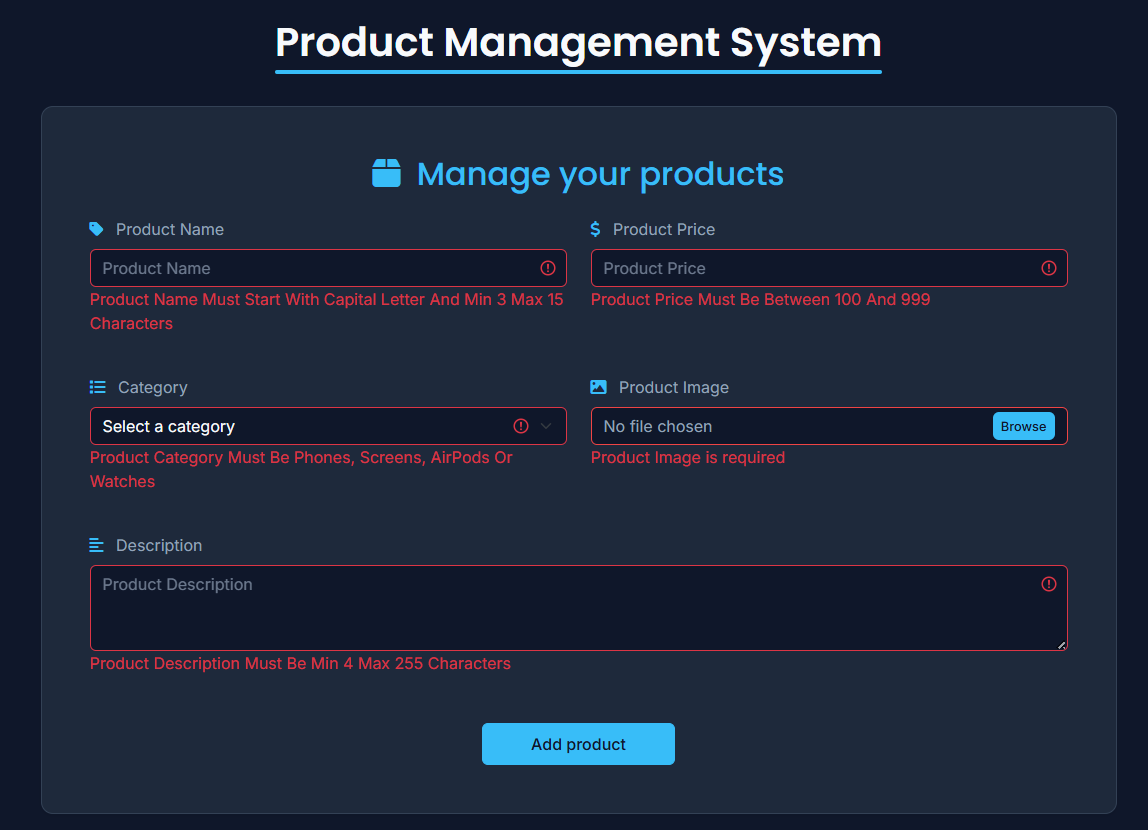
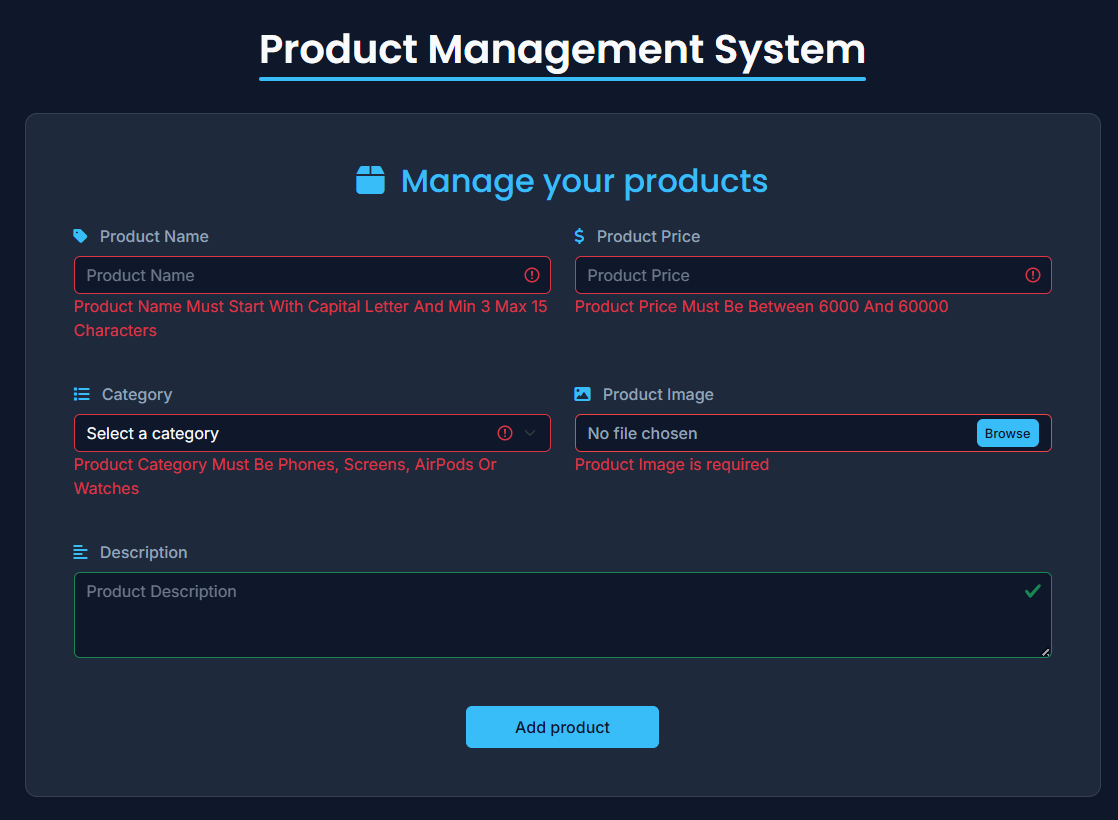
feat(validation): update product validation rules and enhance UI feedback
- Changed product price validation to allow values between 6000 and 60000.
- Updated product description validation to a maximum of 250 characters.
- Enhanced empty state UI with a more informative message and added a suggestion for user action.
- Implemented search term highlighting in product listings for improved user experience.
- Added CSS transitions for form labels and validation states for better visual feedback.

diff --git a/js/index.js b/js/index.js
@@ -42,15 +42,15 @@ const ProductApp = (function () {
     // Validation patterns
     PATTERNS: {
       name: /^[A-Z][a-zA-Z0-9\s]{2,14}$/,
-      price: /^([1-9][0-9]{2}|9[0-9]{2})$/,
-      description: /^.{4,255}$/
+      price: /^([6-9][0-9]{3}|[1-5][0-9]{4}|60000)$/,
+      description: /^.{0,250}$/
     },
 
     VALID_CATEGORIES: ["Phones", "Screens", "AirPods", "Watches", "Other"],
 
     DEFAULT_PRODUCT: {
       name: "IPhone X",
-      price: "999",
+      price: "9999",
       category: "Phones",
       description: "This is an auto-created example product to demonstrate the system's functionality.",
       image: "images/default-product.png",
@@ -148,6 +148,13 @@ const ProductApp = (function () {
       return icons[category] || icons['Other'];
     },
 
+    highlightSearchTerm(text, searchTerm) {
+      if (!searchTerm) return text;
+      
+      const regex = new RegExp(`(${searchTerm.replace(/[.*+?^${}()|[\]\\]/g, '\\$&')})`, 'gi');
+      return text.replace(regex, '<mark>$1</mark>');
+    },
+
     displayAllProducts(allProducts, filteredProducts = null) {
       if (!DOM.productsContainer) return;
 
@@ -163,19 +170,27 @@ const ProductApp = (function () {
       Utilities.toggleVisibility(DOM.emptyState, false);
       Utilities.toggleVisibility(DOM.productsContainer, true);
 
+      // Get current search term for highlighting
+      const searchTerm = DOM.searchInput ? DOM.searchInput.value.trim() : "";
+
       // Use DocumentFragment for performance
       const fragment = document.createDocumentFragment();
       productsToDisplay.forEach((product, index) => {
         const tempContainer = document.createElement('div');
-        tempContainer.innerHTML = this.renderProductCard(product, index);
+        tempContainer.innerHTML = this.renderProductCard(product, index, searchTerm);
         fragment.appendChild(tempContainer.firstElementChild);
       });
 
       DOM.productsContainer.appendChild(fragment);
     },
 
-    renderProductCard(product, index) {
+    renderProductCard(product, index, searchTerm = "") {
       const productImageUrl = product.image || 'images/default-product.png';
+      
+      // Apply highlighting if search term exists
+      const highlightedName = this.highlightSearchTerm(product.name, searchTerm);
+      const highlightedDescription = this.highlightSearchTerm(product.description, searchTerm);
+      
       return `
         <div class="col">
           <div class="product-card h-100 shadow-sm">
@@ -183,23 +198,23 @@ const ProductApp = (function () {
               <img src="${productImageUrl}" class="product-card-image" alt="${product.name}" loading="lazy">
             </div>
             <div class="card-body p-3">
-              <h5 class="product-card-title text-truncate">${product.name}</h5>
+              <h5 class="product-card-title text-truncate">${highlightedName}</h5>
               <div class="mb-2">
                 <span class="product-card-category category-${product.category}">
                   ${this.getCategoryIcon(product.category)} ${product.category}
                 </span>
               </div>
-              <p class="product-card-desc small mb-3">${product.description}</p>
+              <p class="product-card-desc small mb-3">${highlightedDescription}</p>
               <div class="d-flex justify-content-between align-items-center">
                 <p class="product-card-price fw-bold mb-0">$${product.price}</p>
                 <div class="d-flex gap-2">
                   <button class="btn btn-sm btn-edit" data-index="${index}">
-                    <i class="fa-solid fa-pencil me-1"></i> 
-                    <span class="d-none d-sm-inline-block">Edit</span>
+                    <i class="fa-solid fa-pencil"></i>
+                    <span class="d-none d-sm-inline-block ms-1">Edit</span>
                   </button>
                   <button class="btn btn-sm btn-delete" data-index="${index}">
-                    <i class="fa-solid fa-trash me-1"></i> 
-                    <span class="d-none d-sm-inline-block">Delete</span>
+                    <i class="fa-solid fa-trash"></i>
+                    <span class="d-none d-sm-inline-block ms-1">Delete</span>
                   </button>
                 </div>
               </div>
@@ -517,7 +532,10 @@ const ProductApp = (function () {
         this.updateProduct(this.currentProductIndex, updatedProduct);
         this.currentProductIndex = null;
         if (DOM.submitBtn) DOM.submitBtn.textContent = "Add product";
-        UI.displayAllProducts(this.products);
+        
+        // Re-apply current filters to update the view
+        this.handleFiltering();
+        
         UI.clearForm();
         showNotification('success', 'Product Updated', 'Your product has been updated successfully!');
       } else {
@@ -532,7 +550,10 @@ const ProductApp = (function () {
         };
 
         this.addProduct(newProduct);
-        UI.displayAllProducts(this.products);
+        
+        // Re-apply current filters to update the view
+        this.handleFiltering();
+        
         UI.clearForm();
         showNotification('success', 'Product Added', 'Your product has been added successfully!');
       }
@@ -566,7 +587,10 @@ const ProductApp = (function () {
         Swal.fire(config).then((result) => {
           if (result.isConfirmed) {
             this.deleteProduct(index);
-            UI.displayAllProducts(this.products);
+            
+            // Re-apply current filters to update the view
+            this.handleFiltering();
+            
             showNotification('success', 'Deleted!', 'Your product has been deleted.');
           }
         });

diff --git a/js/product-data-seeder.js b/js/product-data-seeder.js
@@ -17,7 +17,7 @@
 (function () {
     const sampleProducts = [{
             name: "IPhone X",
-            price: "999",
+            price: "9999",
             category: "Phones",
             description: "This is an auto-created example product to demonstrate the system's functionality.",
             image: "images/default-product.png",
@@ -25,7 +25,7 @@
         },
         {
             name: "IPhone 15 Pro",
-            price: "999",
+            price: "12999",
             category: "Phones",
             description: "Apple's latest flagship phone with A17 Pro chip, titanium design, and advanced camera system.",
             image: "https://raw.githubusercontent.com/hdpngworld/HPW/main/uploads/6503856f94473-iPhone%2015%20Pro.png",
@@ -33,7 +33,7 @@
         },
         {
             name: "Dell UltraSharp",
-            price: "899",
+            price: "8999",
             category: "Screens",
             description: "27-inch 4K monitor with accurate color reproduction, perfect for creative professionals.",
             image: "https://i.dell.com/is/image/DellContent/content/dam/ss2/product-images/dell-client-products/peripherals/monitors/u-series/u2723qe/media-gallery/monitor-u2723qe-gallery-1.psd?fmt=png-alpha&pscan=auto&scl=1&hei=402&wid=402&qlt=100,1&resMode=sharp2&size=402,402",
@@ -41,7 +41,7 @@
         },
         {
             name: "AirPods Max",
-            price: "549",
+            price: "6499",
             category: "AirPods",
             description: "Over-ear headphones with computational audio, active noise cancellation, and spatial audio.",
             image: "https://store.storeimages.cdn-apple.com/4982/as-images.apple.com/is/airpods-max-select-silver-202011?wid=940&hei=1112&fmt=png-alpha&.v=1604021221000",
@@ -49,7 +49,7 @@
         },
         {
             name: "Pixel Tablet",
-            price: "499",
+            price: "6999",
             category: "Other",
             description: "Google's versatile tablet that doubles as a smart home hub with vibrant display.",
             image: "https://images.unsplash.com/photo-1544244015-0df4b3ffc6b0?q=80&w=2033&auto=format&fit=crop",

diff --git a/index.html b/index.html
@@ -63,7 +63,7 @@
                       id="productPrice"
                     />
                     <small class="form-text text-danger d-none fs-6" id="productPriceError">
-                      Product Price Must Be Between 100 And 999
+                      Product Price Must Be Between 6000 And 60000
                     </small>
                   </div>
                 </div>
@@ -125,7 +125,7 @@
                       rows="3"
                     ></textarea>
                     <small class="form-text text-danger d-none fs-6" id="productDescriptionError">
-                      Product Description Must Be Min 4 Max 255 Characters
+                      Product Description Must Be Max 250 Characters
                     </small>
                   </div>
                 </div>
@@ -181,7 +181,8 @@
             
             <div id="emptyState" class="text-center py-5 empty-state d-none shadow-sm">
               <i class="fa-solid fa-box-open fa-2x mb-3"></i>
-              <p class="mb-0">No products found</p>
+              <h5 class="mb-2">No products found</h5>
+              <p class="mb-3 text-secondary">Try adjusting your search or filter criteria</p>
             </div>
           </div>
         </div>

diff --git a/css/main.css b/css/main.css
@@ -59,6 +59,8 @@ main h1::after {
 
 label {
   color: var(--text-secondary);
+  font-weight: 500;
+  transition: color 0.3s ease;
 }
 
 label i {
@@ -79,6 +81,7 @@ label i {
   border-color: var(--accent-color);
   box-shadow: 0 0 0 0.25rem rgba(56, 189, 248, 0.25);
   color: var(--text-primary);
+  transition: all 0.3s ease;
 }
 
 .form-control::placeholder {
@@ -234,6 +237,7 @@ label i {
   border-radius: 0.75rem;
   overflow: hidden;
   transition: transform 0.3s ease, box-shadow 0.3s ease, border-color 0.3s ease;
+  will-change: transform;
 }
 
 .product-card:hover {
@@ -357,6 +361,23 @@ label i {
   transform: translateY(-1px);
 }
 
+/* Search highlighting */
+mark {
+  background-color: rgba(56, 189, 248, 0.3);
+  color: inherit;
+  padding: 0.1rem 0.2rem;
+  border-radius: 0.25rem;
+  font-weight: 500;
+}
+
+.is-valid, .is-invalid {
+  transition: border-color 0.3s ease, box-shadow 0.3s ease;
+}
+
+.form-control:focus + label,
+.form-select:focus + label {
+  color: var(--accent-color);
+}
 
 /* Responsive */
 @media (max-width: 767.98px) {

diff --git a/README.md b/README.md
@@ -25,13 +25,14 @@ This project was developed as part of the [Route Academy](https://www.linkedin.c
 - ➕ **Add products** with name, price, category, image, and description
 - ✅ **Validate inputs** before submission with real-time feedback
 - 🏷 **Categorize products** (Phones, Screens, AirPods, Watches, Other)
-- 🔍 **Search functionality** to quickly find products
+- 🔍 **Search functionality** with term highlighting to quickly find products
 - 🗂 **Filter products** by category
 - 📊 **Sort products** by date added, name, or price
 - 🗑 **Delete products** with confirmation dialog
 - ✏ **Edit existing products**
 - 📱 **Responsive design** for all devices
 - 💾 **Local storage** for data persistence
+- ⬆ **Scroll to top** button for easy navigation
 
 ## 🛠 Technology Stack
 
@@ -112,7 +113,7 @@ This implementation meets and extends the original project requirements:
 | Delete functionality | ✅ Remove products with confirmation |
 | Data validation | ✅ Regular expression pattern matching for all inputs |
 | Clean UI | ✅ Modern dark theme design with Bootstrap and custom CSS |
-| Enhanced features | ✅ Categories, search, sort, filter, and responsive design |
+| Enhanced features | ✅ Categories, search highlighting, sort, filter, scroll-to-top, and responsive design |
 
 ---
 

diff --git a/docs/project-requirements.md b/docs/project-requirements.md
@@ -25,9 +25,9 @@ This is a JavaScript application that implements a complete CRUD (Create, Read, 
 ### Technical Implementation Details
 1. **Validation Requirements**
    - Product Name: Must start with capital letter, between 3-15 characters
-   - Product Price: Must be between 100-999
+   - Product Price: Must be between 6000-60000
    - Product Category: Must be one of the predefined categories
-   - Product Description: Must be between 4-255 characters
+   - Product Description: Must be between 0-250 characters
    - Product Image: Required file upload
 
 2. **CRUD Operations**
@@ -39,10 +39,12 @@ This is a JavaScript application that implements a complete CRUD (Create, Read, 
 3. **UI Features**
    - Responsive design that works across device sizes
    - Dynamic filtering and sorting without page reload
+   - Search term highlighting in results
    - Category color-coding
    - Toast notifications for user actions
    - Confirmation dialogs for destructive actions
-   - Empty state handling
+   - Empty state handling with reset filters option
+   - Scroll-to-top button for better navigation
 
 ## Code Organization
 - Modular JavaScript with IIFE pattern to avoid global namespace pollution
